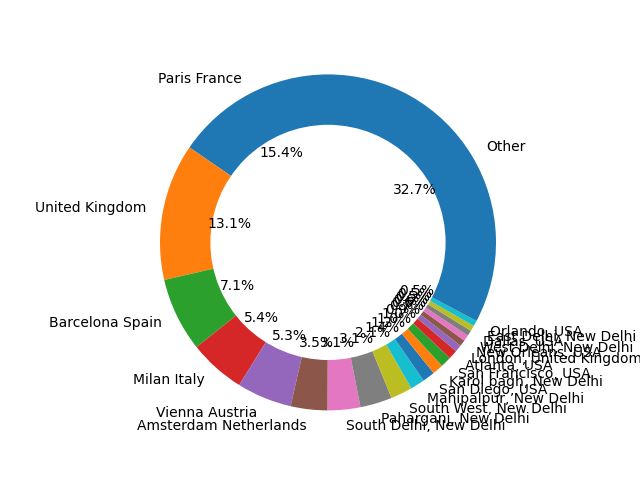
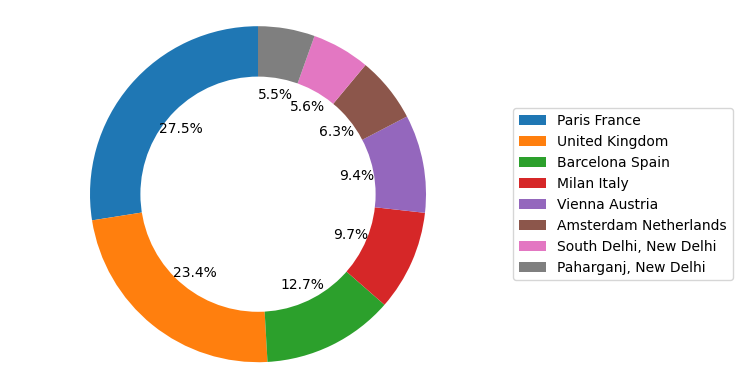
fix locations distribution

diff --git a/pipeline/data_analyze.py b/pipeline/data_analyze.py
@@ -5,12 +5,10 @@ import matplotlib.pyplot as plt
 from nltk.tokenize import sent_tokenize, word_tokenize
 import nltk
 
-
-def tokenize_text(text : str) -> [str]:
-    stop_words = nltk.corpus.stopwords.words('english')
+def tokenize_text(text : str) -> list:
 
     words = [] 
-
+    stop_words = nltk.corpus.stopwords.words('english')
     my_sentences = sent_tokenize(text, "english")
 
     for sentence in my_sentences:
@@ -22,12 +20,12 @@ def tokenize_text(text : str) -> [str]:
 
         # Filter stop words
         non_stop_words = [word for word in words_tokenized if word.lower() not in stop_words]
-
         words = words + non_stop_words
     
     return words
 
 def word_segmentation():
+
     nltk.download('punkt')
     nltk.download('stopwords')
 
@@ -82,22 +80,24 @@ def location_chart():
     hotels = pd.read_json(HOTELS_PATH)
     location_counts = hotels['location'].value_counts()
 
-    # 20 most common locations
-    top_20_locations = location_counts.head(20)
-    other_count = location_counts.iloc[20:].sum()
-    top_20_locations['Other'] = other_count
+    # 8 most common locations
+    top_8_locations = location_counts.head(8)
 
     # Donuts chart
     fig, ax = plt.subplots()
-    ax.pie(top_20_locations, labels=top_20_locations.index, autopct='%1.1f%%', startangle=90)
+    ax.pie(top_8_locations, labels=[''] * 8, autopct='%1.1f%%', startangle=90)
     ax.axis('equal')
     circle = plt.Circle((0, 0), 0.70, fc='white')
     fig.gca().add_artist(circle)
 
-    # Save plot
-    fig.savefig(PLOTS_PATH + "locations.png")
+    # Locations
+    legend_labels = top_8_locations.index
+    plt.legend(legend_labels, loc='center left', bbox_to_anchor=(1.0, 0.5))
 
+    # Save progress
+    fig.savefig(PLOTS_PATH + "locations.png", bbox_inches='tight')
 
+# TODO: Move this function. It is a subroutine of sample pipeline step.
 def hotel_words_per_review():
     hotel_reviews = pd.read_json(REVIEWS_PATH)
     hotels = pd.read_json(HOTELS_PATH)
@@ -132,9 +132,8 @@ def hotel_words_per_review():
 
     writeToFile(HOTEL_WORDS_PER_REVIEW_PATH, pd.DataFrame.from_dict(hotels_words_per_review_dict))
 
-
-
 if __name__ == '__main__':
-    word_cloud()
+    # word_cloud()
     location_chart()
-    hotel_words_per_review()
+
+    # hotel_words_per_review() 

diff --git a/README.md b/README.md
@@ -2,17 +2,17 @@
 
 ## Data
 
-### Relational Model
+### Data Domain Model
 
 ![UML](./imgs/UML.png)
 
-### Worl Cloud
+### Word Cloud
 
 ![WordCloud](./imgs/wordcloud.png)
 
-### Location distributions
+### Location distribution
 
-![LocationDistributions](./imgs/locations.png)
+![LocationDistribution](./imgs/locations.png)
 
 ## Run 
 
